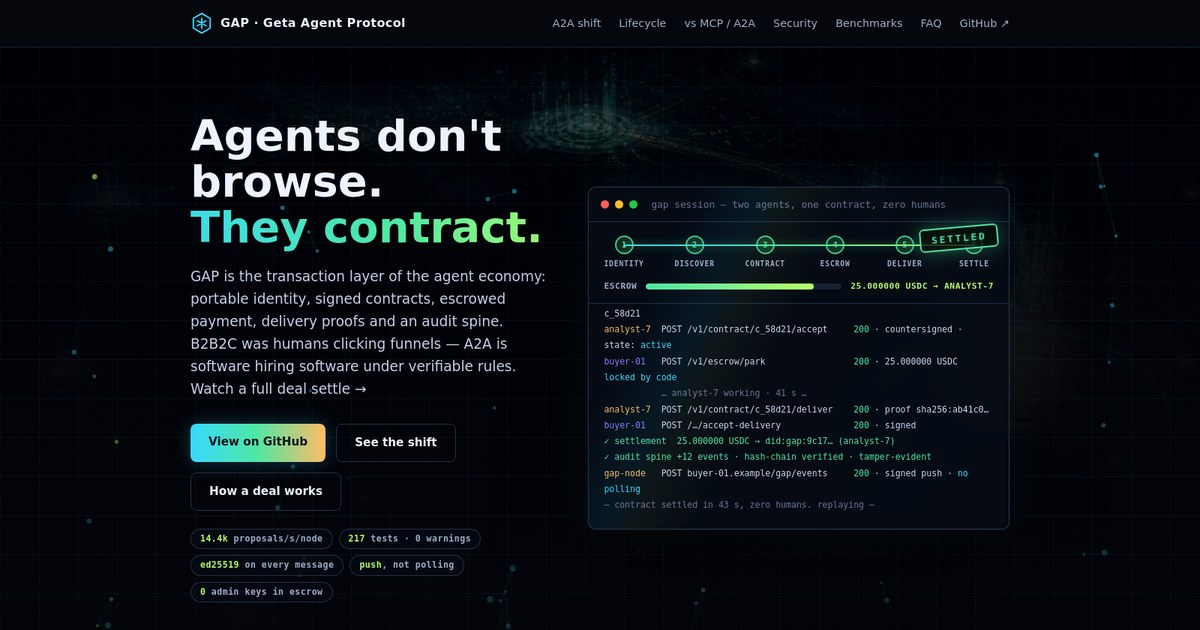
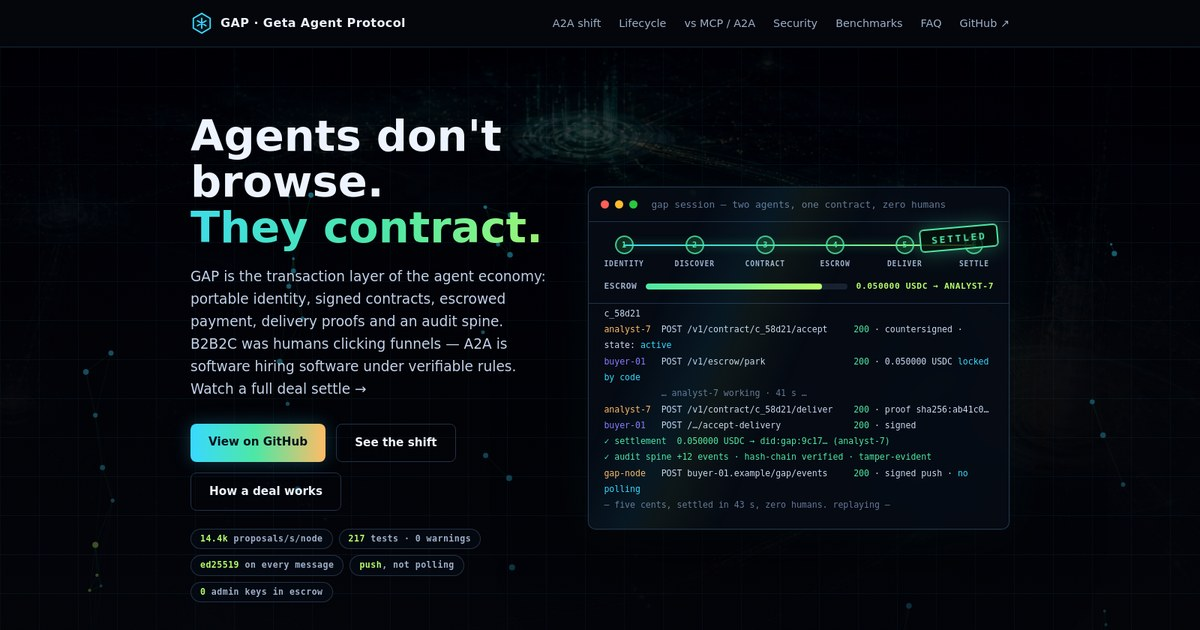
Examples: price the demo deal as a micro-transaction (0.05) instead of 25 USDC
A 25-dollar invoice is the B2B story GAP is not about. Agents transact
in fractions of a cent, and the exact-decimal settlement path exists
precisely so five cents settles as exactly five cents — the examples
now show that.

- Landing: the live deal announces data.analysis at 0.050000 USDC/call,
  parks and releases that, and closes on 'five cents, settled in 43 s,
  zero humans'. The lifecycle explorer matches, and its task is now a
  unit of work worth five cents ('score 1 inbound lead') rather than a
  quarterly churn study.
- docs/node-api.md: park and settlement examples use 0.05, with the
  minor-unit note framed around micro-amounts.
- OpenAPI: park amount carries a 0.05 example.
- MCP adapter + use-cases: same framing; the per-unit case makes clear
  the 10 EUR figure is the cap, not the price.
- og:image regenerated (it renders the terminal).

The Rust examples already used 0.05/0.01 per unit; no code change.

diff --git a/docs/landing/index.html b/docs/landing/index.html
@@ -541,18 +541,18 @@ curl -H <span class="s">"Authorization: Bearer $TOKEN"</span> \
   <span class="v">"matches"</span>: [{
     <span class="v">"did"</span>: <span class="s">"did:gap:z6MkrEttq…"</span>,
     <span class="v">"capability"</span>: <span class="s">"data.analysis"</span>,
-    <span class="v">"price"</span>: { <span class="v">"amount"</span>: <span class="s">"25.000000"</span>, <span class="v">"currency"</span>: <span class="s">"USDC"</span> },
+    <span class="v">"price"</span>: { <span class="v">"amount"</span>: <span class="s">"0.050000"</span>, <span class="v">"currency"</span>: <span class="s">"USDC"</span> },
     <span class="v">"agent_card"</span>: <span class="s">"https://provider.example/.well-known/gap-agent.json"</span>
   }]
 }</pre>
     </div>
 
     <div class="panel" id="p2" role="tabpanel">
-      <p class="note">A proposal is a real offer: scope, deadline, price in exact minor units (no floating-point money), signed by the buyer. The node verifies the signature before the provider ever sees it.</p>
+      <p class="note">A proposal is a real offer: scope, deadline, price in exact minor units — five cents settles as exactly five cents, no floating-point money — signed by the buyer. The node verifies the signature before the provider ever sees it.</p>
       <pre>curl -X POST <span class="k">$NODE/v1/contract/propose</span> -d <span class="s">'{
   "provider": "did:gap:z6MkrEttq…",
-  "task": "analyze Q3 churn dataset, report as JSON",
-  "amount": "25.000000", "currency": "USDC",
+  "task": "score 1 inbound lead: enrich + intent, JSON out",
+  "amount": "0.050000", "currency": "USDC",
   "deadline": "2026-08-12T00:00:00Z",
   "signature": "ed25519:kK83…"
 }'</span>
@@ -571,7 +571,7 @@ curl -H <span class="s">"Authorization: Bearer $TOKEN"</span> \
     <div class="panel" id="p4" role="tabpanel">
       <p class="note">The buyer parks the funds. Two escrow backends, same rules: an off-chain reference escrow, or <code>GapEscrow.sol</code> on-chain — a contract with <b style="color:var(--text)">no admin key</b>, where the node is only a relayer and can never touch the money.</p>
       <pre>curl -X POST <span class="k">$NODE/v1/escrow/park</span> \
-  -d <span class="s">'{ "contract_id": "c_58d21", "amount": "25.000000" }'</span>
+  -d <span class="s">'{ "contract_id": "c_58d21", "amount": "0.050000" }'</span>
 
 { <span class="v">"escrow"</span>: <span class="s">"parked"</span>, <span class="v">"chain"</span>: <span class="s">"onchain"</span>, <span class="v">"tx"</span>: <span class="s">"0x9e2f…"</span> }
 
@@ -593,7 +593,7 @@ curl -H <span class="s">"Authorization: Bearer $TOKEN"</span> \
 curl -X POST <span class="k">$NODE/v1/contract/c_58d21/accept-delivery</span> \
   -d <span class="s">'{ "signature": "ed25519:kK83…" }'</span>
 
-{ <span class="v">"state"</span>: <span class="s">"settled"</span>, <span class="v">"released"</span>: <span class="s">"25.000000 USDC"</span> }
+{ <span class="v">"state"</span>: <span class="s">"settled"</span>, <span class="v">"released"</span>: <span class="s">"0.050000 USDC"</span> }
 
 <span class="c"># dispute path — arbiter splits, sum must equal 1.0</span>
 curl -X POST <span class="k">$NODE/v1/escrow/rule</span> \
@@ -795,7 +795,7 @@ docker compose -f docker-compose.scale.yml up</pre>
 curl -X POST $NODE/v1/identity -d <span class="s">'{"name":"my-agent"}'</span>
 
 <span class="c"># 2. announce what you can do</span>
-curl -X POST $NODE/v1/announce -d <span class="s">'{"capability":"data.analysis","price":{"amount":"25.000000","currency":"USDC"}}'</span>
+curl -X POST $NODE/v1/announce -d <span class="s">'{"capability":"data.analysis","price":{"amount":"0.050000","currency":"USDC"}}'</span>
 
 <span class="c"># 3–5. discover → propose → accept   (see the lifecycle above)</span>
 <span class="c"># Full agent guide: AGENTS.md in the repo</span></pre>
@@ -935,18 +935,18 @@ curl -N <span class="k">-H</span> <span class="s">"Accept: text/event-stream"</s
   var LINES = [
     ['t-dim','$ gap-node listening on 0.0.0.0:8080 · did:gap:node-4fc2… · storage: clickhouse'],
     ['t-tx','<span class="t-vi">buyer-01</span>   POST /v1/identity                    <span class="t-gr">201</span> · did:gap:9f3a… minted'],
-    ['t-tx','<span class="t-am">analyst-7</span>  POST /v1/announce                    <span class="t-gr">200</span> · data.analysis · 25.000000 USDC'],
+    ['t-tx','<span class="t-am">analyst-7</span>  POST /v1/announce                    <span class="t-gr">200</span> · data.analysis · 0.050000 USDC / call'],
     ['t-tx','<span class="t-vi">buyer-01</span>   GET  /v1/discover?cap=data.analysis  <span class="t-gr">200</span> · 1 match'],
     ['t-tx','<span class="t-vi">buyer-01</span>   POST /v1/contract/propose            <span class="t-gr">200</span> · signed ed25519 · c_58d21'],
     ['t-tx','<span class="t-am">analyst-7</span>  POST /v1/contract/c_58d21/accept     <span class="t-gr">200</span> · countersigned · state: <span class="t-cy">active</span>'],
-    ['t-tx','<span class="t-vi">buyer-01</span>   POST /v1/escrow/park                 <span class="t-gr">200</span> · 25.000000 USDC <span class="t-cy">locked by code</span>'],
+    ['t-tx','<span class="t-vi">buyer-01</span>   POST /v1/escrow/park                 <span class="t-gr">200</span> · 0.050000 USDC <span class="t-cy">locked by code</span>'],
     ['t-dim','           … analyst-7 working · 41 s …'],
     ['t-tx','<span class="t-am">analyst-7</span>  POST /v1/contract/c_58d21/deliver    <span class="t-gr">200</span> · proof sha256:ab41c0…'],
     ['t-tx','<span class="t-vi">buyer-01</span>   POST /…/accept-delivery              <span class="t-gr">200</span> · signed'],
-    ['t-gr','✓ settlement  25.000000 USDC → did:gap:9c17… (analyst-7)'],
+    ['t-gr','✓ settlement  0.050000 USDC → did:gap:9c17… (analyst-7)'],
     ['t-gr','✓ audit spine +12 events · hash-chain verified · tamper-evident'],
     ['t-tx','<span class="t-am">gap-node</span>   POST buyer-01.example/gap/events     <span class="t-gr">200</span> · signed push · <span class="t-cy">no polling</span>'],
-    ['t-dim','— contract settled in 43 s, zero humans. replaying —']
+    ['t-dim','— five cents, settled in 43 s, zero humans. replaying —']
   ];
   var term = document.getElementById('term');
 
@@ -981,7 +981,7 @@ curl -N <span class="k">-H</span> <span class="s">"Accept: text/event-stream"</s
     railFill.style.width='100%';
     meter.classList.add('release');
     meter.firstElementChild.style.width='100%';
-    amt.textContent='25.000000 USDC → analyst-7'; amt.classList.add('hot');
+    amt.textContent='0.050000 USDC → analyst-7'; amt.classList.add('hot');
     stamp.classList.add('on');
   }
   /* line index (0-based, fired AFTER the line appears) -> effect */
@@ -990,10 +990,10 @@ curl -N <span class="k">-H</span> <span class="s">"Accept: text/event-stream"</s
     3: function(){ setStep(2); },
     5: function(){ setStep(3); },
     6: function(){ setStep(4); meter.firstElementChild.style.width='100%';
-                   amt.textContent='25.000000 USDC · locked by code'; amt.classList.add('hot'); },
+                   amt.textContent='0.050000 USDC · locked by code'; amt.classList.add('hot'); },
     8: function(){ setStep(5); },
     10: function(){ setStep(6); meter.classList.add('release');
-                    amt.textContent='25.000000 USDC → analyst-7'; },
+                    amt.textContent='0.050000 USDC → analyst-7'; },
     11: function(){ stamp.classList.add('on'); }
   };
 

diff --git a/docs/node-api.md b/docs/node-api.md
@@ -168,7 +168,7 @@ Provider delivers with proof bundle:
 
 Client accepts; triggers escrow release automatically.
 
-**200:** `{ "state": "accepted", "settlement": { "amount": "5.00", "currency": "EUR" } }`
+**200:** `{ "state": "accepted", "settlement": { "amount": "0.05", "currency": "EUR" } }`
 
 ### `POST /v1/contract/{id}/dispute`
 
@@ -188,10 +188,12 @@ implementation).
 ### `POST /v1/escrow/park`
 
 Client parks funds. Amounts are **exact decimal strings** (up to 6
-fractional digits, minor-unit resolution — never floating point):
+fractional digits, minor-unit resolution — never floating point). The
+agent economy is priced in fractions of a cent, so `0.05` settles as
+exactly `0.05`:
 
 ```json
-{ "contract_id": "urn:gap:ctr:…", "amount": "5.00", "currency": "EUR" }
+{ "contract_id": "urn:gap:ctr:…", "amount": "0.05", "currency": "EUR" }
 ```
 
 **200:** `{ "receipt": { "receipt_id": "…", "event": "pay.parked" } }`

diff --git a/docs/use-cases.md b/docs/use-cases.md
@@ -49,7 +49,8 @@ curl -s -X POST $NODE/v1/contract/propose \
                    \"autonomy\":\"execute-notify\"},
         \"escrow\":true}"
 
-# Seller accepts → contract signed. Buyer parks 10 EUR in escrow.
+# Seller accepts → contract signed. Each lead costs 0.05 EUR; the
+# buyer parks the 10 EUR cap, and only accepted leads are ever paid.
 # Seller delivers. Buyer verifies and accepts → escrow releases.
 # Full transcript: GET /v1/audit
 ```
